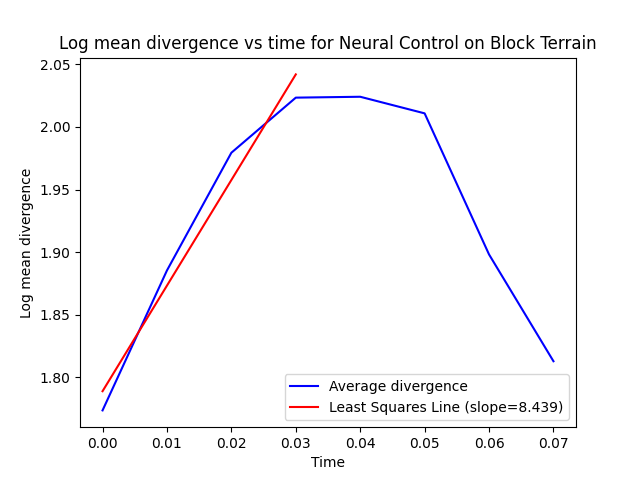
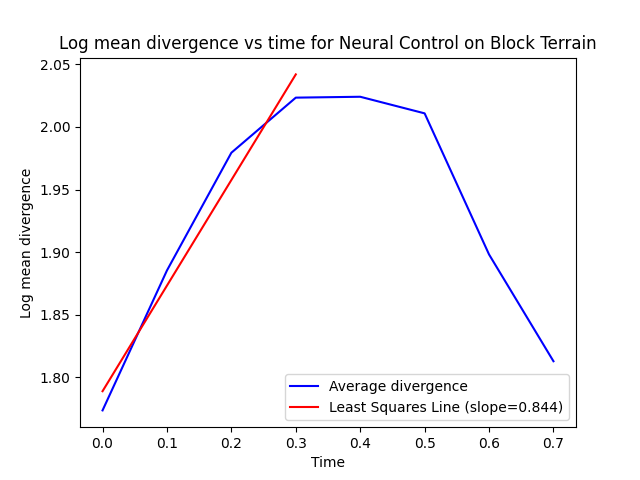
tweaking parameters and time labels

diff --git a/state_space.py b/state_space.py
@@ -55,62 +55,62 @@ def quaternion_to_euler(quaternion):
     return roll, pitch, yaw
 
 # Function to plot 2D linear state space
-def plot_linear_2d(timestamps, pos_x, pos_y, pos_z, vel_x, vel_y, vel_z, acc_x, acc_y, acc_z, disturbance, control_type):
+def plot_linear_2d(timestamps, pos_x, pos_y, pos_z, vel_x, vel_y, vel_z, acc_x, acc_y, acc_z, disturbance, control_type,delta_t):
     # Create a 3x3 grid of subplots
     fig, axs = plt.subplots(3, 3, figsize=(18, 10))
     fig.suptitle(f"2D Linear State Space Plot for {control_type} Control on {disturbance} Terrain")
-
+    timestamps=timestamps*delta_t
     # Plot position X vs. timestamp
     axs[0, 0].plot(timestamps, pos_x)
-    axs[0, 0].set_xlabel('Timestamp')
+    axs[0, 0].set_xlabel('Time (s)')
     axs[0, 0].set_ylabel('Position X')
     axs[0, 0].set_title('Position X vs. Timestamp')
 
     # Plot position Y vs. timestamp
     axs[0, 1].plot(timestamps, pos_y)
-    axs[0, 1].set_xlabel('Timestamp')
+    axs[0, 1].set_xlabel('Time (s)')
     axs[0, 1].set_ylabel('Position Y')
     axs[0, 1].set_title('Position Y vs. Timestamp')
 
     # Plot position Z vs. timestamp
     axs[0, 2].plot(timestamps, pos_z)
-    axs[0, 2].set_xlabel('Timestamp')
+    axs[0, 2].set_xlabel('Time (s)')
     axs[0, 2].set_ylabel('Position Z')
     axs[0, 2].set_title('Position Z vs. Timestamp')
 
     # Plot velocity X vs. timestamp
     axs[1, 0].plot(timestamps, vel_x)
-    axs[1, 0].set_xlabel('Timestamp')
+    axs[1, 0].set_xlabel('Time (s)')
     axs[1, 0].set_ylabel('Velocity X')
     axs[1, 0].set_title('Velocity X vs. Timestamp')
 
     # Plot velocity Y vs. timestamp
     axs[1, 1].plot(timestamps, vel_y)
-    axs[1, 1].set_xlabel('Timestamp')
+    axs[1, 1].set_xlabel('Time (s)')
     axs[1, 1].set_ylabel('Velocity Y')
     axs[1, 1].set_title('Velocity Y vs. Timestamp')
 
     # Plot velocity Z vs. timestamp
     axs[1, 2].plot(timestamps, vel_z)
-    axs[1, 2].set_xlabel('Timestamp')
+    axs[1, 2].set_xlabel('Time (s)')
     axs[1, 2].set_ylabel('Velocity Z')
     axs[1, 2].set_title('Velocity Z vs. Timestamp')
 
     # Plot acceleration X vs. timestamp
     axs[2, 0].plot(timestamps, acc_x)
-    axs[2, 0].set_xlabel('Timestamp')
+    axs[2, 0].set_xlabel('Time (s)')
     axs[2, 0].set_ylabel('Acceleration X')
     axs[2, 0].set_title('Acceleration X vs. Timestamp')
 
     # Plot acceleration Y vs. timestamp
     axs[2, 1].plot(timestamps, acc_y)
-    axs[2, 1].set_xlabel('Timestamp')
+    axs[2, 1].set_xlabel('Time (s)')
     axs[2, 1].set_ylabel('Acceleration Y')
     axs[2, 1].set_title('Acceleration Y vs. Timestamp')
 
     # Plot acceleration Z vs. timestamp
     axs[2, 2].plot(timestamps, acc_z)
-    axs[2, 2].set_xlabel('Timestamp')
+    axs[2, 2].set_xlabel('Time (s)')
     axs[2, 2].set_ylabel('Acceleration Z')
     axs[2, 2].set_title('Acceleration Z vs. Timestamp')
 
@@ -121,62 +121,62 @@ def plot_linear_2d(timestamps, pos_x, pos_y, pos_z, vel_x, vel_y, vel_z, acc_x, 
     plt.close()
 
 # Function to plot 2D angular state space
-def plot_angular_2d(timestamps, roll, pitch, yaw, wx, wy, wz, aa_x, aa_y, aa_z, disturbance, control_type):
+def plot_angular_2d(timestamps, roll, pitch, yaw, wx, wy, wz, aa_x, aa_y, aa_z, disturbance, control_type,delta_t):
     # Create a 3x3 grid of subplots
     fig, axs = plt.subplots(3, 3, figsize=(18, 10))
     fig.suptitle(f"2D Angular State Space Plot for {control_type} Control on {disturbance} Terrain")
-
+    timestamps=timestamps*delta_t
     # Plot roll vs. timestamp
     axs[0, 0].plot(timestamps, roll)
-    axs[0, 0].set_xlabel('Timestamp')
+    axs[0, 0].set_xlabel('Time (s)')
     axs[0, 0].set_ylabel('Roll')
     axs[0, 0].set_title('Roll vs. Timestamp')
 
     # Plot pitch vs. timestamp
     axs[0, 1].plot(timestamps, pitch)
-    axs[0, 1].set_xlabel('Timestamp')
+    axs[0, 1].set_xlabel('Time (s)')
     axs[0, 1].set_ylabel('Pitch')
     axs[0, 1].set_title('Pitch vs. Timestamp')
 
     # Plot yaw vs. timestamp
     axs[0, 2].plot(timestamps, yaw)
-    axs[0, 2].set_xlabel('Timestamp')
+    axs[0, 2].set_xlabel('Time (s)')
     axs[0, 2].set_ylabel('Yaw')
     axs[0, 2].set_title('Yaw vs. Timestamp')
 
     # Plot angular velocity X vs. timestamp
     axs[1, 0].plot(timestamps, wx)
-    axs[1, 0].set_xlabel('Timestamp')
+    axs[1, 0].set_xlabel('Time (s)')
     axs[1, 0].set_ylabel('Angular Velocity X')
     axs[1, 0].set_title('Angular Velocity X vs. Timestamp')
 
     # Plot angular velocity Y vs. timestamp
     axs[1, 1].plot(timestamps, wy)
-    axs[1, 1].set_xlabel('Timestamp')
+    axs[1, 1].set_xlabel('Time (s)')
     axs[1, 1].set_ylabel('Angular Velocity Y')
     axs[1, 1].set_title('Angular Velocity Y vs. Timestamp')
 
     # Plot angular velocity Z vs. timestamp
     axs[1, 2].plot(timestamps, wz)
-    axs[1, 2].set_xlabel('Timestamp')
+    axs[1, 2].set_xlabel('Time (s)')
     axs[1, 2].set_ylabel('Angular Velocity Z')
     axs[1, 2].set_title('Angular Velocity Z vs. Timestamp')
 
     # Plot angular acceleration X vs. timestamp
     axs[2, 0].plot(timestamps, aa_x)
-    axs[2, 0].set_xlabel('Timestamp')
+    axs[2, 0].set_xlabel('Time (s)')
     axs[2, 0].set_ylabel('Angular Acceleration X')
     axs[2, 0].set_title('Angular Acceleration X vs. Timestamp')
 
     # Plot angular acceleration Y vs. timestamp
     axs[2, 1].plot(timestamps, aa_y)
-    axs[2, 1].set_xlabel('Timestamp')
+    axs[2, 1].set_xlabel('Time (s)')
     axs[2, 1].set_ylabel('Angular Acceleration Y')
     axs[2, 1].set_title('Angular Acceleration Y vs. Timestamp')
 
     # Plot angular acceleration Z vs. timestamp
     axs[2, 2].plot(timestamps, aa_z)
-    axs[2, 2].set_xlabel('Timestamp')
+    axs[2, 2].set_xlabel('Time (s)')
     axs[2, 2].set_ylabel('Angular Acceleration Z')
     axs[2, 2].set_title('Angular Acceleration Z vs. Timestamp')
 
@@ -298,7 +298,7 @@ def plot_gait(plot_x, plot_y, plot_z, bottom_peaks, disturbance, control_type):
     plt.close()
 
 # Main function
-def main(disturbance, control_type):
+def main(disturbance, control_type,delta_t):
     # Generate the file path based on the disturbance and control type
     file_path = fg.filename_clean(disturbance, control_type)
     
@@ -306,8 +306,11 @@ def main(disturbance, control_type):
     df, timestamps, pos_x, pos_y, pos_z, quaternion, vel_x, vel_y, vel_z, acc_x, acc_y, acc_z, wx, wy, wz, aa_x, aa_y, aa_z, roll, pitch, yaw = import_data(file_path)
     
     # Plot 2D linear state space
-    plot_linear_2d(timestamps, pos_x, pos_y, pos_z, vel_x, vel_y, vel_z, acc_x, acc_y, acc_z, disturbance, control_type)
+    plot_linear_2d(timestamps, pos_x, pos_y, pos_z, vel_x, vel_y, vel_z, acc_x, acc_y, acc_z, disturbance, control_type,delta_t)
     
+    # Plot 2D angular state space
+    plot_angular_2d(timestamps, roll, pitch, yaw, wx, wy, wz, aa_x, aa_y, aa_z, disturbance, control_type,delta_t)
+
     # Plot 3D phase space for position
     plot_3d_phase_space_pos(pos_x, pos_y, pos_z, disturbance, control_type)
     

diff --git a/main.py b/main.py
@@ -11,15 +11,15 @@ print("Running main.py")
 
 def main():
     # Set the values for various parameters
-    tau = 7  # Time delay for Lyapunov exponent calculation
+    tau = 7  # Time delay for Lyapunov exponent calculation (in number of steps)
     m = 22  # Embedding dimension for Lyapunov exponent calculation
-    delta_t = 0.01  # Time step for Lyapunov exponent calculation
-    min_steps = 100  # Minimum number of steps for Lyapunov exponent calculation
-    force_minsteps = False  # Flag to force minimum steps for Lyapunov exponent calculation
-    epsilon = 10  # Tolerance for truncation and re-truncation
+    delta_t = 0.1  # Time step for between data points
+    min_steps = 100  # Minimum number of steps between neighbors (should force_minsteps be True)
+    force_minsteps = False  # Flag to force preset minimum steps for Lyapunov exponent calculation
+    epsilon = 10  # Not in use (for kantz algorithm)
     plotting_0 = 0  # Starting point for Lyapunov exponent plotting
-    plotting_final = 300  # Ending point for Lyapunov exponent plotting
-    tolerance = 0.001  # Tolerance for truncation and re-truncation
+    plotting_final = 300  # Ending point for Lyapunov exponent plotting (overwritten - ignore)
+    tolerance = 0.001  # Tolerance for truncation and re-truncation (not used - ignore)
 
     # Initialize lists to store results
     predefined_exponents = []  # List to store predefined Lyapunov exponents
@@ -52,7 +52,7 @@ def main():
         tr.retruncate(file[1], file[0], file[2], file[3])
 
         # Perform state space analysis on the data
-        ss.main(file[1], file[0])
+        ss.main(file[1], file[0],delta_t)
 
         # Calculate Lyapunov exponents for the data
         lyap.exponent(tau, m, min_steps, epsilon, plotting_0, plotting_final,

diff --git a/psd.py b/psd.py
@@ -39,8 +39,8 @@ def plot_psd(psds_neural, psds_predefined, disturbances):
     fig, ax = plt.subplots(1, 1, figsize=(10, 5))  # Create a figure and axes object
     
     # Add violin plots for neural and predefined control
-    add_label(ax.violinplot(psds_neural, side='high', showmeans=False, showmedians=False, showextrema=False), "Neural")
-    add_label(ax.violinplot(psds_predefined, side='low', showmeans=False, showmedians=False, showextrema=False), "Predefined")
+    add_label(ax.violinplot(psds_neural, side='high', showmeans=False, showmedians=True, showextrema=False), "Neural")
+    add_label(ax.violinplot(psds_predefined, side='low', showmeans=False, showmedians=True, showextrema=False), "Predefined")
     
     ax.legend(*zip(*labels), loc=9)  # Add legend using the labels list
     ax.set_xlabel("Disturbance")  # Set x-axis label
